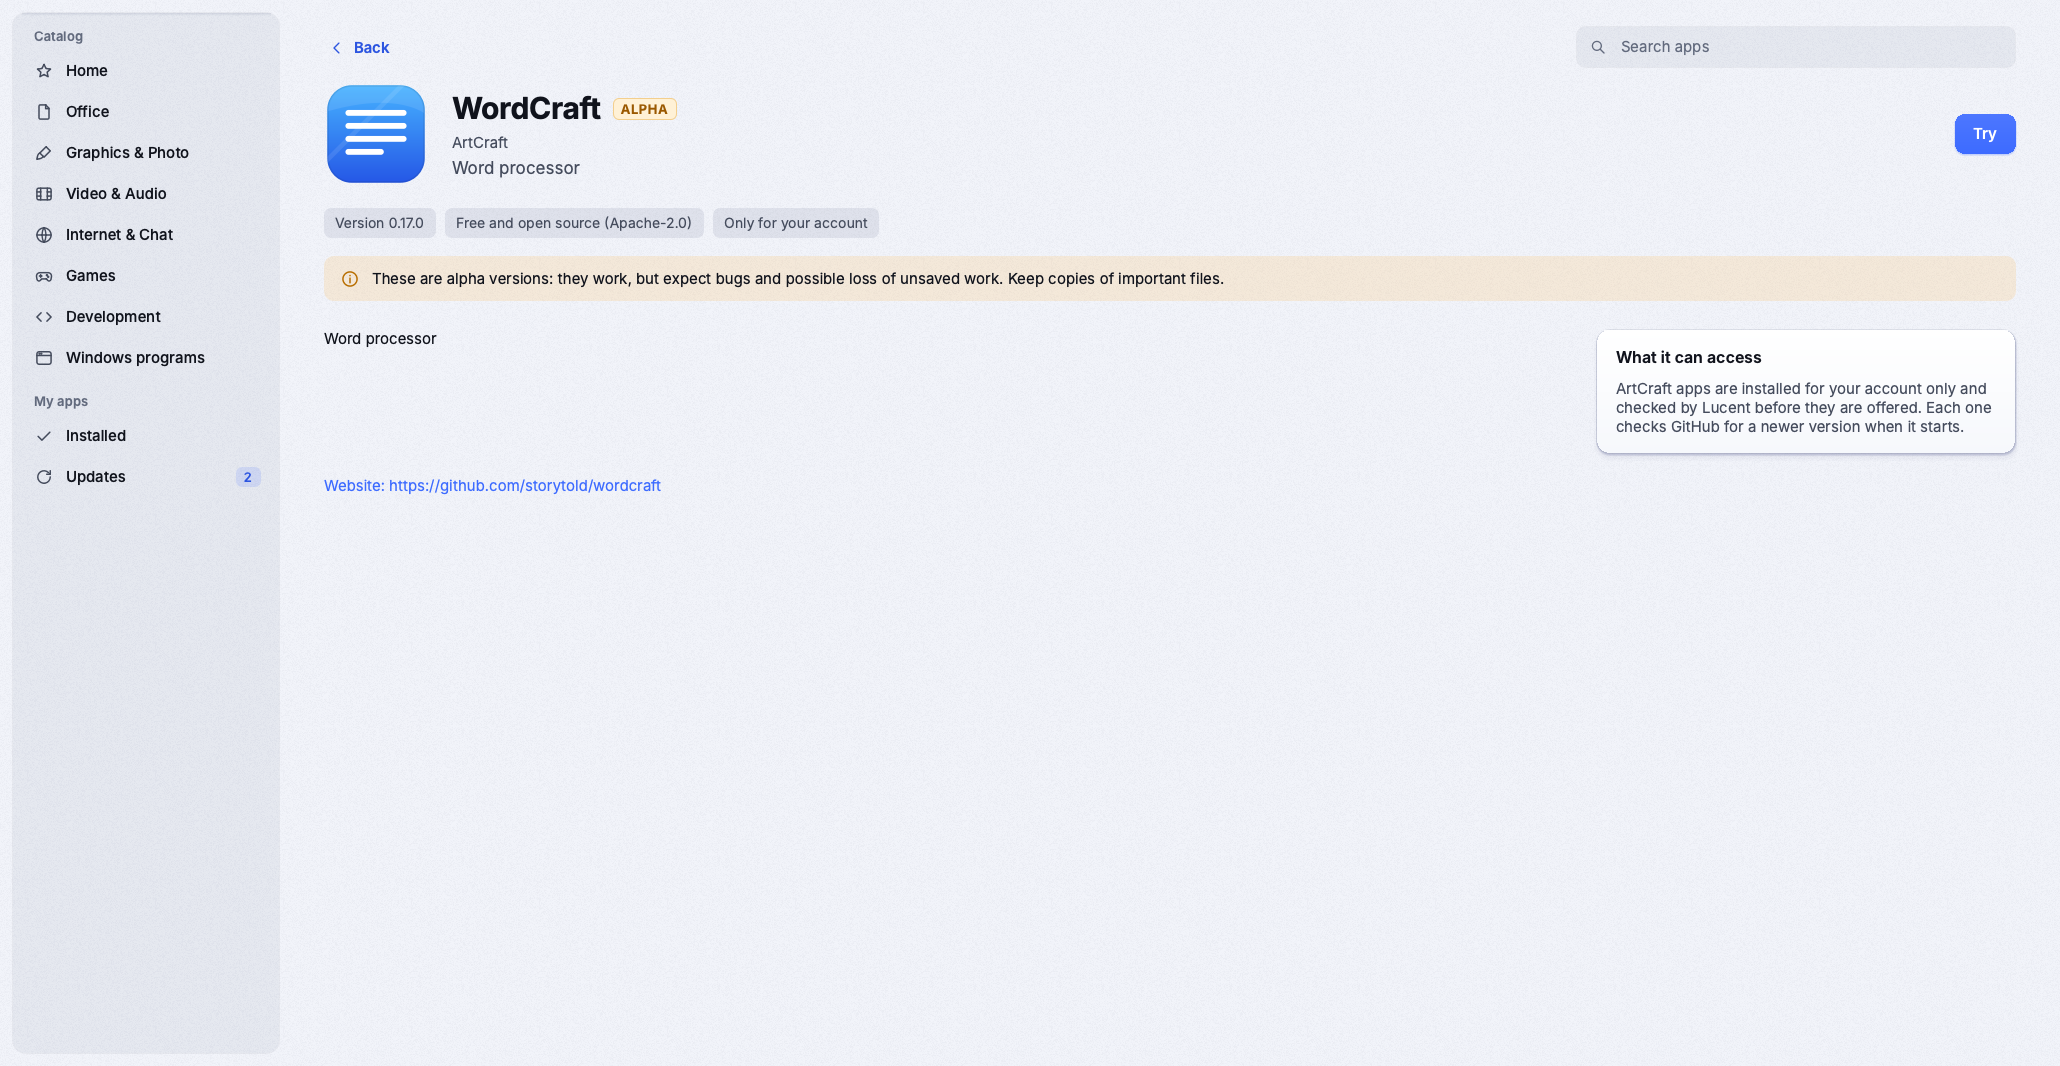
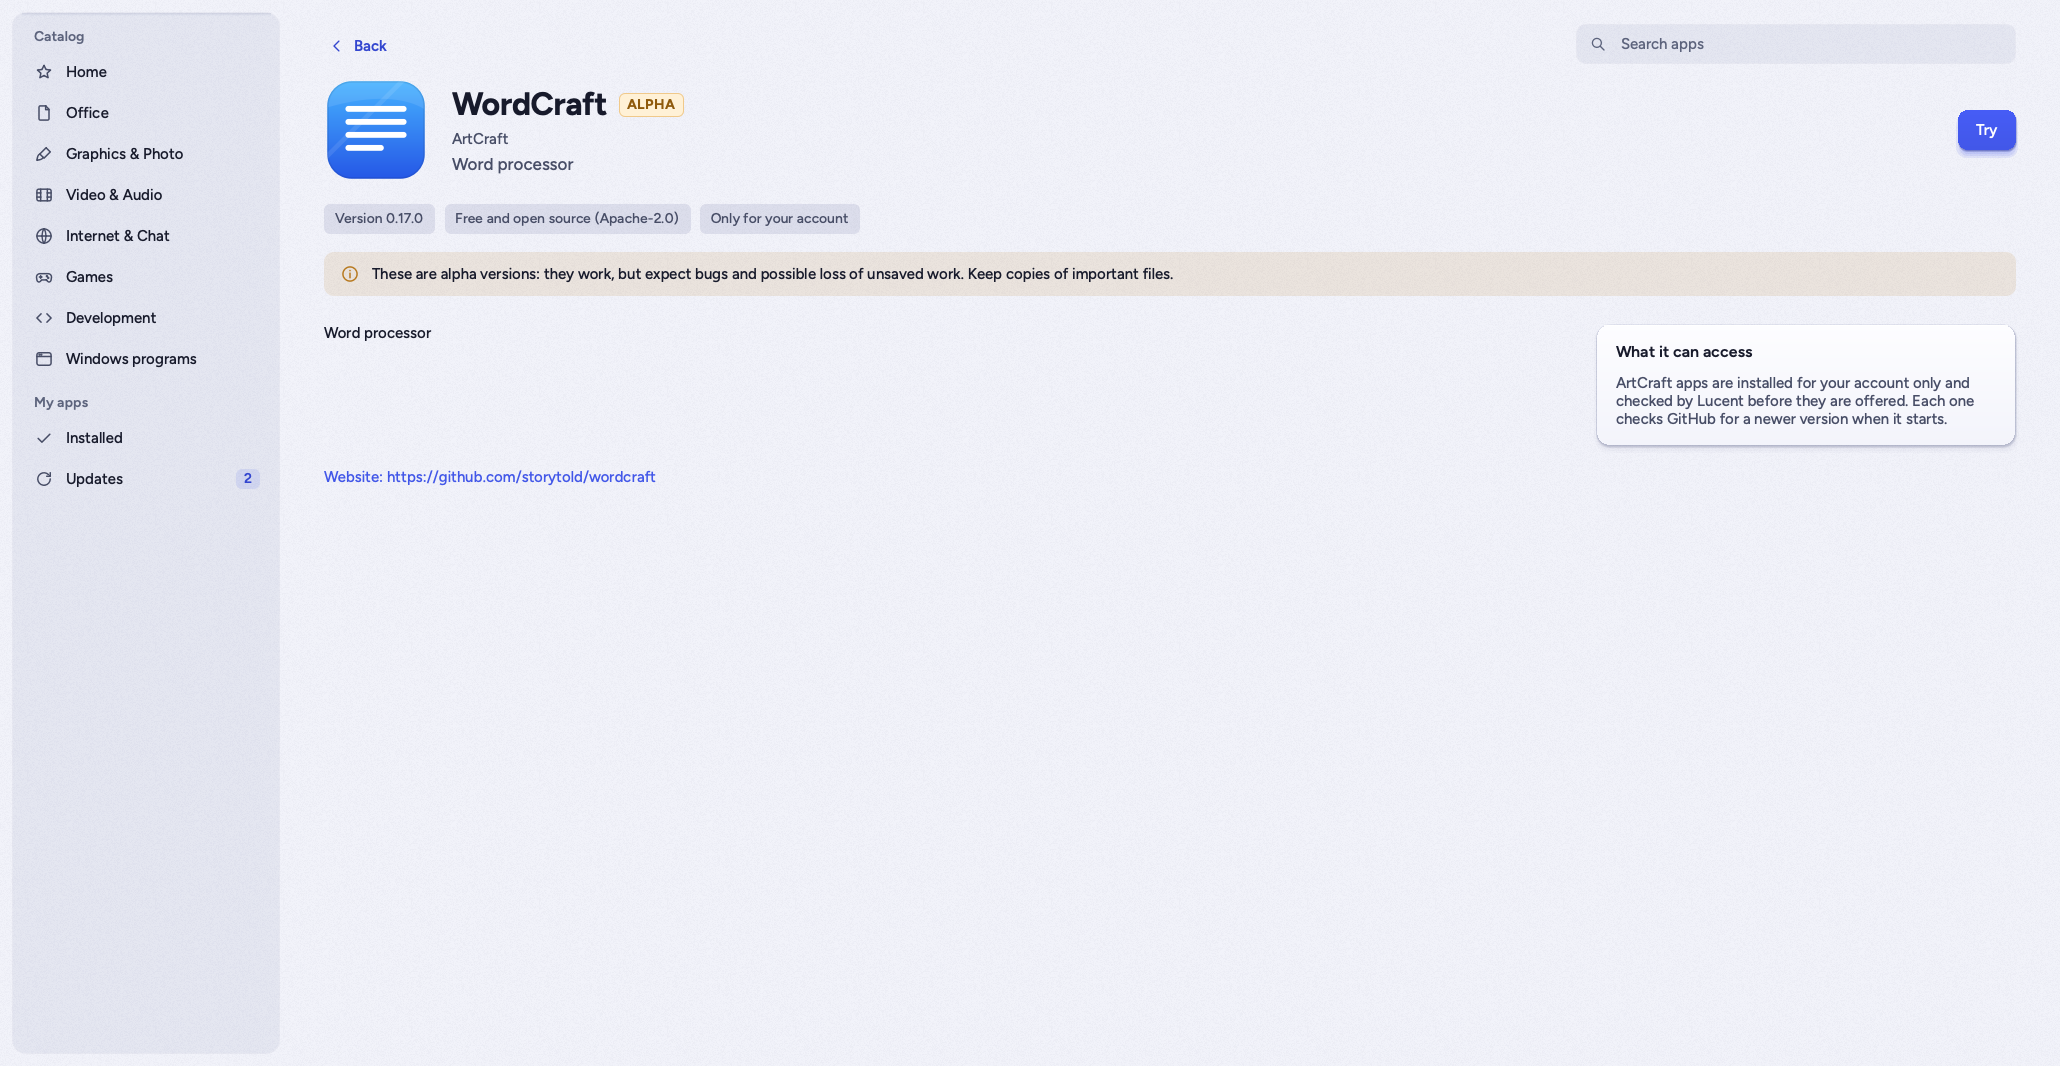
Lucent Store: final Pebble Drift tokens
theme.py now carries the values of docs/mockups/concepts-2026/pebble-drift/
pebble-drift.css (indigo-blue accent, cool neutral surfaces, sunken wells,
raised/lift/accent shadows, grain, status colours, type scale with nothing
below 14 px, radii 18/14/10/6), each commented with its CSS variable. The
app font follows the token list (Figtree, then Inter), body weight 500.
Previews re-rendered in light and dark.

Claude-Session: https://claude.ai/code/session_01XWqM5DBx6LTafxzXU2wcTH

diff --git a/apps/lucent-store/lucent_store/qml/LButton.qml b/apps/lucent-store/lucent_store/qml/LButton.qml
@@ -28,7 +28,9 @@ Item {
     Item {
         anchors.fill: parent
         visible: b.kind === "primary"
-        Shadow { radius: b.radius; dy: 1; blur: 3; strength: b.tk.shadowNear * 2.5; steps: 3; color: b.tk.accent }
+        // --shadow-accent
+        Shadow { radius: b.radius; dy: 6; blur: 14; spread: -4; strength: b.tk.accentShadow; color: b.tk.accent }
+        Shadow { radius: b.radius; dy: 1; blur: 2; strength: b.tk.accentShadowNear; steps: 2; color: b.tk.accentShadowColor }
         Rectangle {
             anchors.fill: parent
             radius: b.radius

diff --git a/apps/lucent-store/lucent_store/qml/AppPage.qml b/apps/lucent-store/lucent_store/qml/AppPage.qml
@@ -22,7 +22,7 @@ ScrollPage {
             spacing: 6
             Row {
                 spacing: 12
-                Text { text: page.d.name; font.pointSize: store.t.fontH1; font.weight: Font.Bold; font.letterSpacing: -0.3
+                Text { text: page.d.name; font.pointSize: store.t.fontH1; font.weight: Font.ExtraBold; font.letterSpacing: -0.3
                        color: page.tk.text }
                 AlphaBadge { visible: page.d.nextgen; anchors.verticalCenter: parent.verticalCenter }
             }

diff --git a/apps/lucent-store/lucent_store/qml/PageHeader.qml b/apps/lucent-store/lucent_store/qml/PageHeader.qml
@@ -27,7 +27,7 @@ Item {
         height: store.t.searchHeight
         verticalAlignment: Text.AlignVCenter
         font.pointSize: store.t.fontH1
-        font.weight: Font.Bold
+        font.weight: Font.ExtraBold
         font.letterSpacing: -0.3
         color: h.tk.text
         text: {

diff --git a/apps/lucent-store/lucent_store/qml/Main.qml b/apps/lucent-store/lucent_store/qml/Main.qml
@@ -12,7 +12,6 @@ ApplicationWindow {
     visible: true
     title: l10n.text("Store")
     color: tk.winBg
-    font.family: tk.font
 
     readonly property var tk: store.t
     readonly property int rev: store.revision

diff --git a/apps/lucent-store/lucent_store/qml/AlphaBadge.qml b/apps/lucent-store/lucent_store/qml/AlphaBadge.qml
@@ -2,7 +2,7 @@ import QtQuick
 
 Rectangle {
     readonly property var tk: store.t
-    height: 22
+    height: 24
     width: t.implicitWidth + 16
     radius: store.t.radiusBadge
     color: tk.alphaBg

diff --git a/apps/lucent-store/lucent_store/theme.py b/apps/lucent-store/lucent_store/theme.py
@@ -16,73 +16,82 @@ from __future__ import annotations
 import os
 import re
 
-# Interim palette: Prism's cool neutrals and blue/indigo accent
-# (concepts-2026/prism/prism.css) on Pebble's materials; to be replaced by
-# concepts-2026/pebble-drift/pebble-drift.css.
+# Tokens of docs/mockups/concepts-2026/pebble-drift/pebble-drift.css (the
+# source of truth): Pebble's materials with Prism's cool palette. Comments
+# name the CSS variable each value comes from.
 LIGHT = {
-    "accent": "#3d6bff", "accentHover": "#2f5af0", "accentSoft": "rgba(61,107,255,.14)",
-    "accentText": "#2c55e0", "onAccent": "#ffffff",
-    "text": "#10131c", "text2": "#444b5c", "text3": "#626a7d",
-    "line": "rgba(16,24,48,.08)", "lineStrong": "rgba(16,24,48,.14)",
-    # surfaces: matte frost, opaque here (looks the same without a compositor)
-    "winBg": "#f2f4fa", "raised": "#ffffff", "raised2": "#f6f8fc",
-    "well": "rgba(60,70,110,.065)", "wellStrong": "rgba(60,70,110,.10)",
-    "wellShade": "rgba(20,30,80,.10)", "wellRing": "rgba(16,24,48,.05)",
-    "hover": "rgba(60,70,110,.06)",
-    # shadows (colour + strength of each layer; see Raised.qml)
-    "shadow": "#1e286e", "shadowRing": "rgba(10,18,50,.09)", "topLight": "rgba(255,255,255,.90)",
-    "shadowNear": 0.10, "shadowMid": 0.08, "shadowLift": 0.20,
-    "grain": "grain-dark.png", "grainOpacity": 0.06,
-    "ok": "#1f9d55", "okSoft": "rgba(31,157,85,.12)", "warn": "#b86e00", "warnSoft": "rgba(255,181,71,.18)",
-    "danger": "#d23b3b",
-    # Next generation · beta panel
-    "betaA": "rgba(255,181,71,.12)", "betaB": "rgba(236,63,134,.07)", "betaC": "rgba(124,92,255,.10)",
-    "betaLine": "rgba(240,122,30,.22)", "betaNoteBg": "rgba(255,255,255,.70)", "betaNoteText": "#6b4300",
-    "alphaBg": "#fff1d6", "alphaText": "#9a5800", "alphaLine": "#f3cf8e",
-    "scrim": "rgba(16,19,28,.28)",
+    "accent": "#4257e8", "accentHover": "#3549d6",           # --accent, --accent-hover
+    "accentSoft": "rgba(66,87,232,.12)", "accentText": "#3346cf", "onAccent": "#ffffff",
+    "text": "#171a2b", "text2": "#474d66", "text3": "#5c637c",  # --text-primary/secondary/tertiary
+    "line": "rgba(40,50,110,.10)", "lineStrong": "rgba(40,50,110,.17)",
+    "winBg": "#f2f3fa",                                        # --surface-window-solid
+    "raised": "#fdfdff", "raised2": "#f3f4fb",                 # --surface-raised(-2)
+    "well": "rgba(48,58,120,.065)", "wellStrong": "rgba(48,58,120,.11)",   # --surface-sunken(-strong)
+    "wellShade": "rgba(25,35,90,.10)", "wellRing": "rgba(30,40,100,.05)",  # --shadow-sunken
+    "hover": "rgba(48,58,120,.065)",                           # --state-hover
+    # --shadow-raised / --shadow-lift / --shadow-accent, drawn by Shadow.qml
+    "shadow": "#19235a", "shadowRing": "rgba(30,40,100,.08)", "topLight": "rgba(255,255,255,.90)",
+    "shadowNear": 0.10, "shadowMid": 0.08, "shadowLift": 0.22, "accentShadowNear": 0.30, "accentShadow": 0.40,
+    "accentShadowColor": "#1e288c",
+    "grain": "grain-dark.png", "grainOpacity": 0.07,           # --grain-*, multiply
+    "ok": "#2f8a5c", "okSoft": "rgba(47,138,92,.12)",          # --status-success
+    "warn": "#b7791f", "warnSoft": "rgba(183,121,31,.13)",     # --status-warning
+    "danger": "#cf3a48",                                       # --status-danger
+    # artwork: the "Next generation · beta" panel and alpha badges
+    "betaA": "rgba(255,181,71,.12)", "betaB": "rgba(236,63,134,.07)", "betaC": "rgba(122,85,224,.10)",
+    "betaLine": "rgba(183,121,31,.24)", "betaNoteBg": "rgba(253,253,255,.72)", "betaNoteText": "#6b4300",
+    "alphaBg": "#fff1d6", "alphaText": "#8f5a0c", "alphaLine": "#f0c98a",
+    "scrim": "rgba(23,26,43,.28)",
 }
 DARK = {
     **LIGHT,
-    "accent": "#6f93ff", "accentHover": "#86a4ff", "accentSoft": "rgba(111,147,255,.20)",
-    "accentText": "#9db4ff", "onAccent": "#ffffff",
-    "text": "#f2f4fb", "text2": "#b9c0d2", "text3": "#9aa2b6",
-    "line": "rgba(255,255,255,.08)", "lineStrong": "rgba(255,255,255,.13)",
-    "winBg": "#1b1e2b", "raised": "#2b2f42", "raised2": "#262a3a",
-    "well": "rgba(0,0,0,.20)", "wellStrong": "rgba(0,0,0,.28)",
-    "wellShade": "rgba(0,0,0,.35)", "wellRing": "rgba(255,255,255,.04)",
-    "hover": "rgba(255,255,255,.06)",
-    "shadow": "#000000", "shadowRing": "rgba(0,0,0,.40)", "topLight": "rgba(255,255,255,.07)",
-    "shadowNear": 0.30, "shadowMid": 0.25, "shadowLift": 0.45,
-    "grain": "grain-light.png", "grainOpacity": 0.07,
-    "ok": "#4cd38a", "okSoft": "rgba(76,211,138,.14)", "warn": "#f0b04a", "warnSoft": "rgba(240,176,74,.16)",
-    "danger": "#ff7b7b",
-    "betaA": "rgba(255,181,71,.09)", "betaB": "rgba(236,63,134,.07)", "betaC": "rgba(124,92,255,.11)",
-    "betaLine": "rgba(240,160,70,.26)", "betaNoteBg": "rgba(0,0,0,.22)", "betaNoteText": "#f3c784",
-    "alphaBg": "#3a2e17", "alphaText": "#f0b04a", "alphaLine": "rgba(240,176,74,.40)",
-    "scrim": "rgba(0,0,0,.45)",
+    "accent": "#7088ff", "accentHover": "#8297ff",
+    "accentSoft": "rgba(112,136,255,.18)", "accentText": "#9aabff", "onAccent": "#0e1230",
+    "text": "#eef0fa", "text2": "#bcc1d6", "text3": "#9ca2bb",
+    "line": "rgba(220,228,255,.08)", "lineStrong": "rgba(220,228,255,.14)",
+    "winBg": "#1d1f2e",
+    "raised": "#33364d", "raised2": "#2c2f44",
+    "well": "rgba(0,0,10,.20)", "wellStrong": "rgba(0,0,10,.30)",
+    "wellShade": "rgba(0,0,0,.35)", "wellRing": "rgba(220,228,255,.04)",
+    "hover": "rgba(220,228,255,.07)",
+    "shadow": "#000000", "shadowRing": "rgba(0,0,0,.35)", "topLight": "rgba(220,228,255,.08)",
+    "shadowNear": 0.30, "shadowMid": 0.25, "shadowLift": 0.50, "accentShadowNear": 0.40, "accentShadow": 0.35,
+    "accentShadowColor": "#000000",
+    "grain": "grain-light.png", "grainOpacity": 0.09,          # screen
+    "ok": "#56c08a", "okSoft": "rgba(86,192,138,.14)",
+    "warn": "#e3a547", "warnSoft": "rgba(227,165,71,.16)",
+    "danger": "#ef5f6b",
+    "betaA": "rgba(255,181,71,.08)", "betaB": "rgba(236,63,134,.06)", "betaC": "rgba(160,132,255,.10)",
+    "betaLine": "rgba(227,165,71,.26)", "betaNoteBg": "rgba(0,0,10,.22)", "betaNoteText": "#f0c784",
+    "alphaBg": "#3a2e17", "alphaText": "#e3a547", "alphaLine": "rgba(227,165,71,.40)",
+    "scrim": "rgba(0,0,10,.50)",
 }
 
 # Everything that isn't a colour: type sizes (points = CSS px * 0.75, so
 # Plasma's font DPI setting still applies), corner radii and the layout
 # measures. Pebble nests radii window 18 -> card 14 -> control 10 -> chip 7.
 METRICS = {
-    "font": "Inter", "fontFallback": "Noto Sans",
-    "fontH1": 22.5, "fontH2": 14.25, "fontDialog": 15, "fontTitle": 12.75, "fontName": 12.375,
+    # --font-sans; the app font falls back in this order (app.py)
+    "fontFamilies": ["Figtree", "Inter", "Noto Sans"],
+    # --type-*: display 32, heading 19, subhead 17, body 15.5, small 14.5, caption 14 (never below)
+    "fontH1": 24, "fontH2": 14.25, "fontDialog": 15, "fontTitle": 12.75, "fontName": 12.375,
     "fontLead": 12, "fontBody": 11.625, "fontText": 11.25, "fontSmall": 10.875, "fontCaption": 10.5,
-    "fontMeta": 10.125, "fontLabel": 10.125, "fontBadge": 9.375,
-    "radiusBadge": 6, "radiusChip": 7, "radiusItem": 10, "radiusButton": 10, "radiusField": 10,
-    "radiusShot": 12, "radiusRow": 14, "radiusCard": 14, "radiusPanel": 18,
-    "paneX": 44, "paneTop": 26, "sectionGap": 30, "gridGap": 16, "rowGap": 14,
+    "fontMeta": 10.5, "fontLabel": 10.5, "fontBadge": 10.5,
+    # --radius-*: window 18 -> card 14 -> control 10 -> chip 6
+    "radiusBadge": 6, "radiusChip": 6, "radiusItem": 10, "radiusButton": 10, "radiusField": 10,
+    "radiusShot": 10, "radiusRow": 14, "radiusCard": 14, "radiusPanel": 18,
+    # --space-* (4 px grid) applied to the 06-store layout
+    "paneX": 44, "paneTop": 24, "sectionGap": 32, "gridGap": 16, "rowGap": 16,
     "sideInset": 12, "sidebarWidth": 268, "sideItemHeight": 40, "buttonHeight": 40, "buttonSmallHeight": 36,
-    "searchWidth": 440, "searchHeight": 42, "iconCard": 64, "iconCraft": 58, "iconRow": 54, "iconPage": 104,
-    "cardPadX": 22, "cardPadY": 20, "homeCards": 6,
+    "searchWidth": 440, "searchHeight": 40, "iconCard": 64, "iconCraft": 56, "iconRow": 52, "iconPage": 104,
+    "cardPadX": 20, "cardPadY": 20, "homeCards": 6,
 }
 
 _RGBA = re.compile(r"rgba\((\d+),\s*(\d+),\s*(\d+),\s*([\d.]+)\)")
 
 
 def qml_color(css):
-    if not isinstance(css, str):
+    if not isinstance(css, str):     # numbers and lists pass through
         return css
     m = _RGBA.fullmatch(css.replace(" ", ""))
     if not m:

diff --git a/apps/lucent-store/lucent_store/app.py b/apps/lucent-store/lucent_store/app.py
@@ -81,8 +81,12 @@ def main(argv: list[str] | None = None) -> int:
     if fonts:
         for f in Path(fonts).glob("*.ttf"):
             QFontDatabase.addApplicationFont(str(f))
+    from PySide6.QtGui import QFont
+
+    from .theme import METRICS
     font = app.font()
-    font.setFamilies(["Inter", "Noto Sans", font.family()])
+    font.setFamilies([*METRICS["fontFamilies"], font.family()])
+    font.setWeight(QFont.Weight.Medium)       # --type-body-weight: 500
     app.setFont(font)
 
     cat = catalog_mod.load()

diff --git a/README.md b/README.md
@@ -144,7 +144,9 @@ pytest
 ## Lucent Store
 
 `apps/lucent-store/` — the "Store" in the launcher and taskbar (PySide6 +
-QML, Lucent tokens, light/dark following the system). KDE Discover stays
+QML, light/dark following the system; every colour, size, radius and shadow
+is a token in `lucent_store/theme.py`, ported from the "Pebble Drift"
+direction, `docs/mockups/concepts-2026/pebble-drift/`). KDE Discover stays
 installed (it still opens `.flatpakref` files) but is hidden from the launcher.
 
 - **No recommendations, ads, AI or tracking.** Home and the category pages
